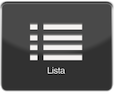
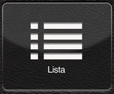
fixed assets, small improvements

diff --git a/NSEvents/NSEvents/UI/EventTableViewController.m b/NSEvents/NSEvents/UI/EventTableViewController.m
@@ -44,7 +44,7 @@
   }
   
   // Uncomment the following line to preserve selection between presentations.
-  // self.clearsSelectionOnViewWillAppear = NO;
+  self.clearsSelectionOnViewWillAppear = NO;
   
   // Uncomment the following line to display an Edit button in the navigation bar for this view controller.
   // self.navigationItem.rightBarButtonItem = self.editButtonItem;
@@ -142,9 +142,10 @@
 {
   EventDetailTableViewController *eventDetail = (EventDetailTableViewController*)segue.destinationViewController;
   UITableViewCell *selectedCell = sender;
-  NSInteger selectedIndex = [self.tableView indexPathForCell:selectedCell].row;
-  eventDetail.event = [events objectAtIndex:selectedIndex];
-  NSLog(@"segue: %@, sender: %@", [segue description], [sender description]);
+  NSIndexPath *selectedIndexPath = [self.tableView indexPathForCell:selectedCell];
+  eventDetail.event = [events objectAtIndex:selectedIndexPath.row];
+//  NSLog(@"segue: %@, sender: %@", [segue description], [sender description]);
+  [self.tableView deselectRowAtIndexPath:selectedIndexPath animated:YES];
 }
 
 @end

diff --git a/NSEvents/NSEvents/UI/EventDetailTableViewController.m b/NSEvents/NSEvents/UI/EventDetailTableViewController.m
@@ -15,6 +15,7 @@
 
 @implementation EventDetailTableViewController
 @synthesize event;
+@synthesize eventTitleCell;
 
 - (id)initWithStyle:(UITableViewStyle)style
 {
@@ -28,8 +29,7 @@
 - (void)viewDidLoad
 {
   [super viewDidLoad];
-  NSLog(@"Event: %@", [event title]);
-  
+  self.eventTitleCell.textLabel.text = event.title;
   // Uncomment the following line to preserve selection between presentations.
   // self.clearsSelectionOnViewWillAppear = NO;
   
@@ -39,6 +39,7 @@
 
 - (void)viewDidUnload
 {
+  [self setEventTitleCell:nil];
   [super viewDidUnload];
   // Release any retained subviews of the main view.
   // e.g. self.myOutlet = nil;

diff --git a/NSEvents/NSEvents/UI/EventDetailTableViewController.h b/NSEvents/NSEvents/UI/EventDetailTableViewController.h
@@ -10,4 +10,5 @@
 @class Event;
 @interface EventDetailTableViewController : UITableViewController
 @property (nonatomic, strong) Event *event;
+@property (strong, nonatomic) IBOutlet UITableViewCell *eventTitleCell;
 @end
